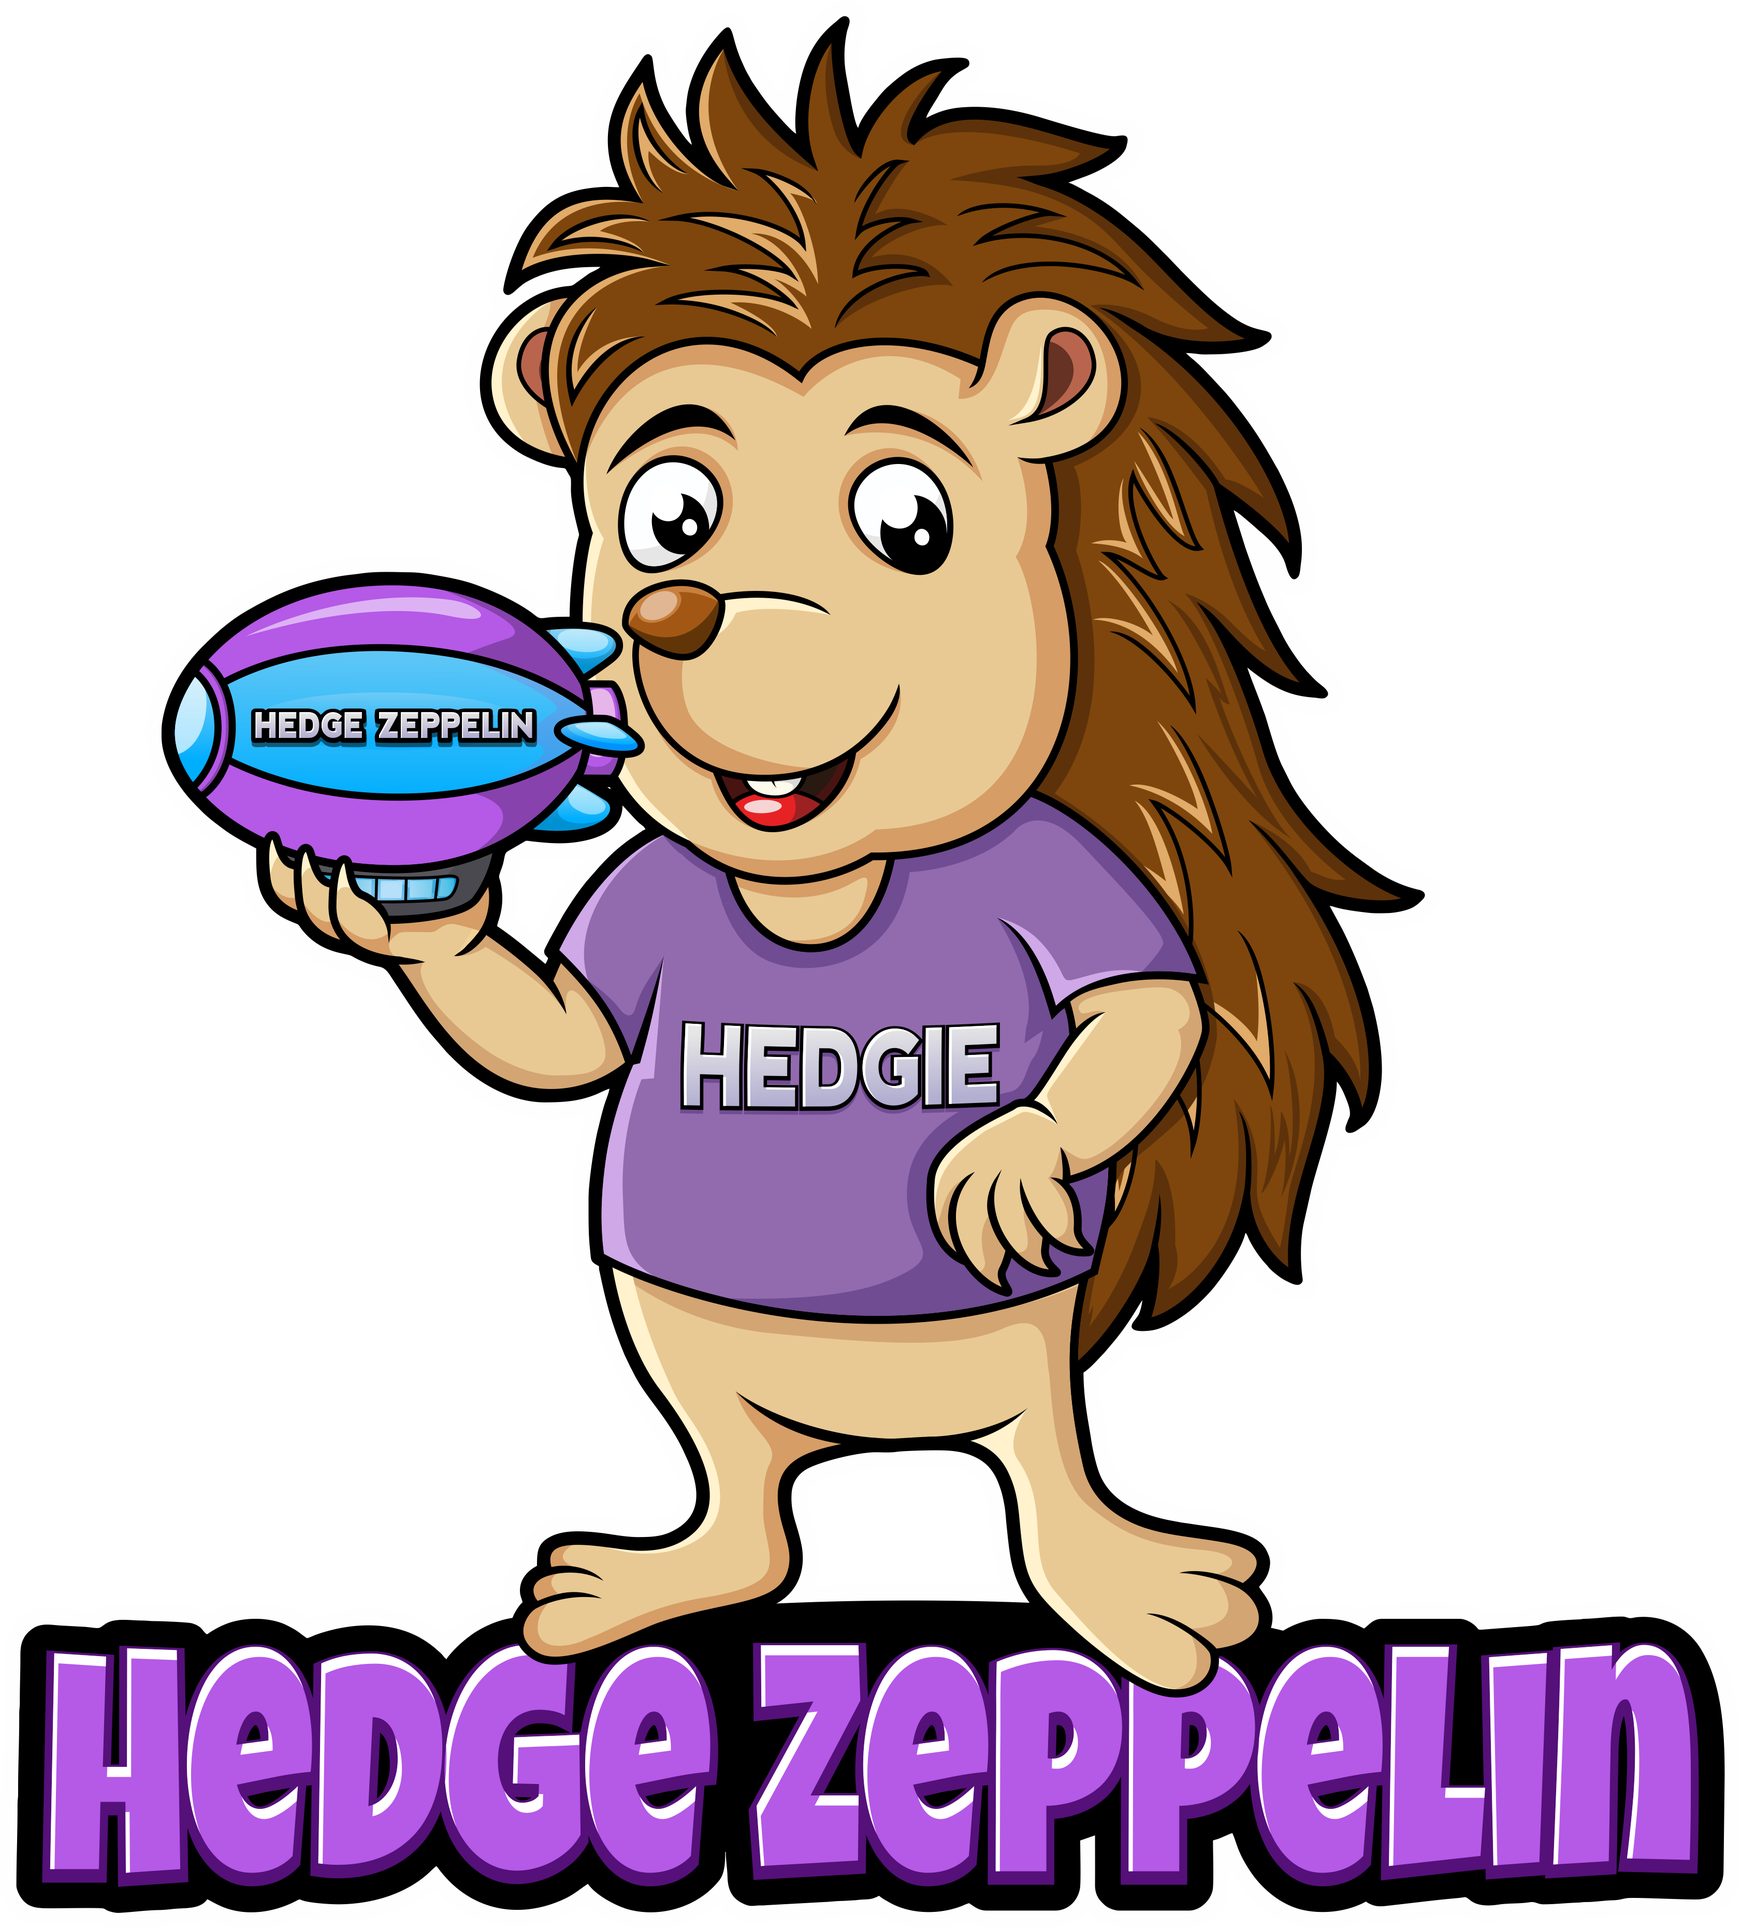
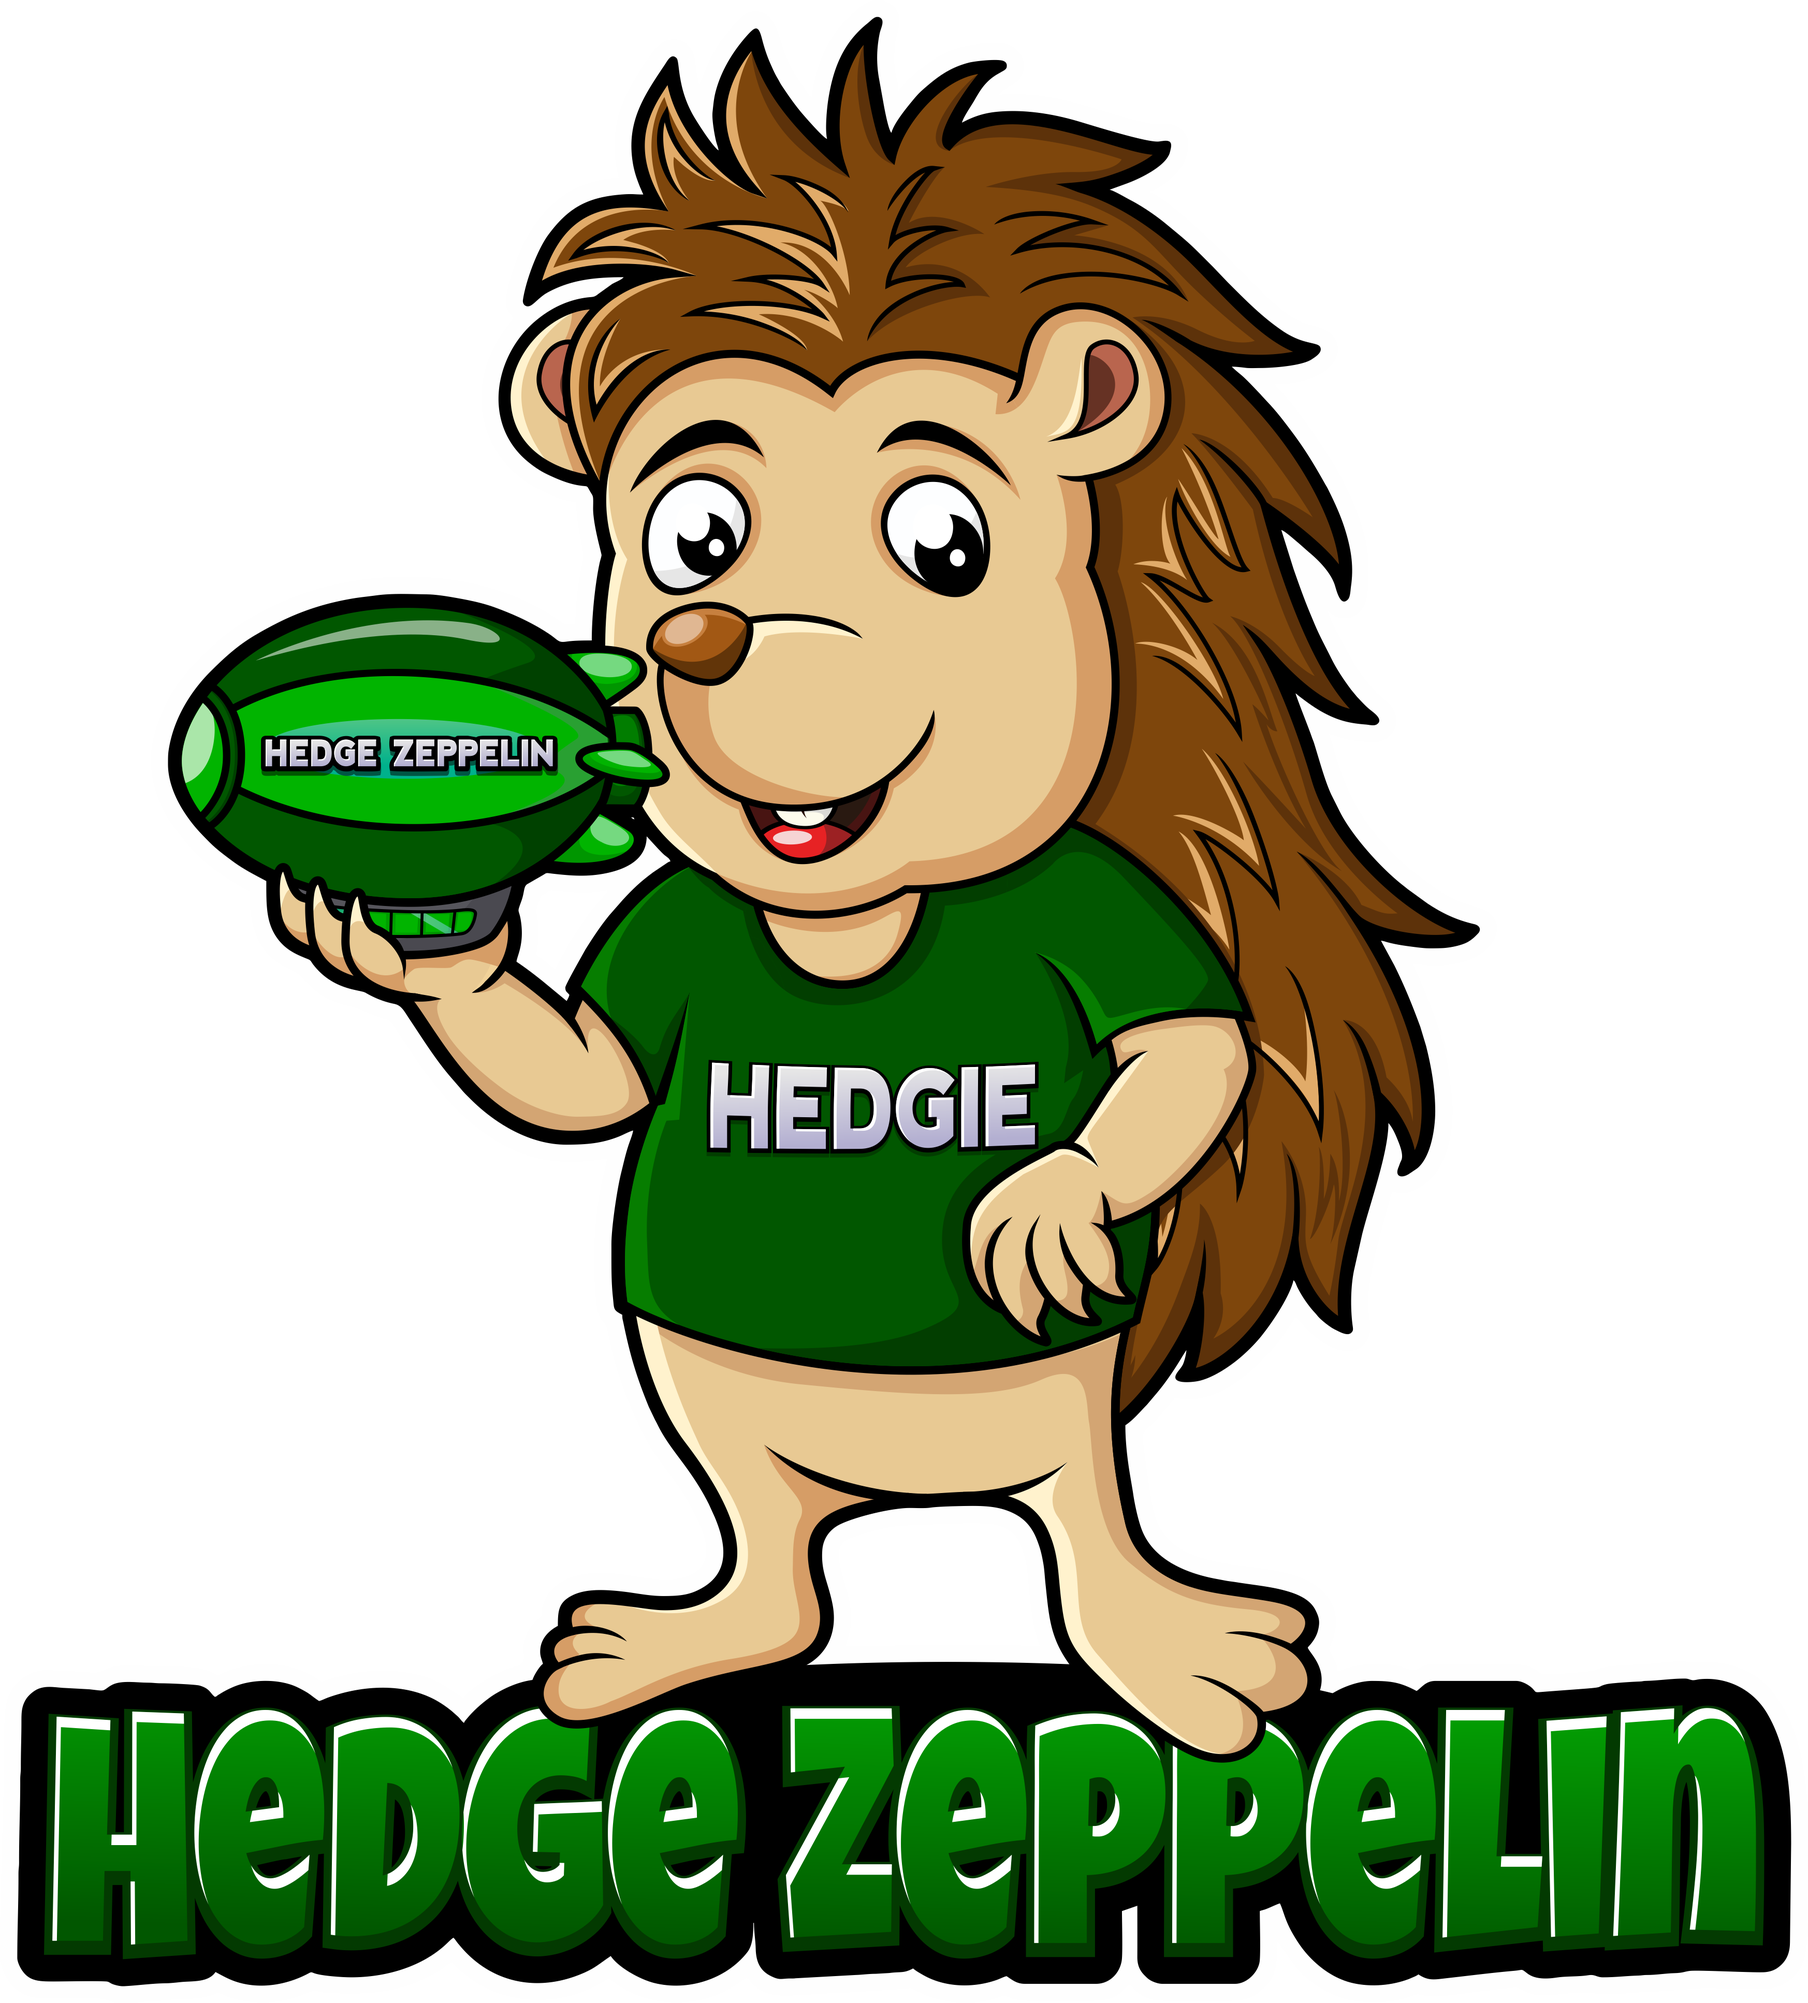
Changed to green hedgie. Change tokenomic card animation

Changed region(s): [[0.0, 0.8408, 0.9994, 0.9965], [0.3123, 0.4048, 0.6871, 0.6851], [0.0937, 0.2803, 0.3748, 0.4671]]

diff --git a/src/components/screens/Tokenomics.js b/src/components/screens/Tokenomics.js
@@ -1,7 +1,65 @@
 import Card from "../common/card/Card";
 import "./styles/tokenomics.css";
+import { useState } from "react";
 
 const Tokenomics = () => {
+  const [distFlip, setDistFlip] = useState({
+    prelaunch: false,
+    supply: false,
+    liquidity: false,
+  });
+
+  const DetailItem = (rowName, rowValue) => {
+    return (
+      <div
+        style={{
+          display: "flex",
+          justifyContent: "space-between",
+          flexDirection: "row",
+          width: "100%",
+          marginLeft: "10px",
+          marginRight: "10px",
+        }}
+      >
+        <span style={{ fontSize: "12px", marginBottom: "4px" }}>{rowName}</span>
+        <span
+          style={{ fontSize: "12px", marginBottom: "4px", textAlign: "right" }}
+        >
+          {rowValue.map((line) => (
+            <>
+              {line}
+              <br />
+            </>
+          ))}
+        </span>
+      </div>
+    );
+  };
+
+  const flip = (target) => {
+    let object;
+    switch (target) {
+      case "prelaunch":
+        object = {
+          prelaunch: !distFlip.prelaunch,
+        };
+        break;
+      case "supply":
+        object = {
+          supply: !distFlip.supply,
+        };
+        break;
+      case "liquidity":
+        object = {
+          liquidity: !distFlip.liquidity,
+        };
+        break;
+      default:
+        break;
+    }
+    setDistFlip((data) => ({ ...data, ...object }));
+  };
+
   return (
     <div className="tokenomics-container" id="tokenomics">
       <div className="tok-title">Tokenomics</div>
@@ -44,7 +102,7 @@ const Tokenomics = () => {
               style={{ width: "60px", height: "60px" }}
               alt="Checkmark"
             />
-            8% Buy/Transfer fees
+            5% Buy/Transfer fees
           </div>
         </Card>
         <Card>
@@ -61,7 +119,7 @@ const Tokenomics = () => {
               style={{ width: "60px", height: "60px" }}
               alt="Checkmark"
             />
-            12% Sell fees
+            5% Sell fees
           </div>
         </Card>
         <Card>
@@ -84,50 +142,110 @@ const Tokenomics = () => {
       </div>
       <div className="tk-card-container">
         <Card>
-          <div className="card-content">
-            <img
-              src={require("./../../assets/images/icons8-capital-96.png")}
-              style={{ width: "180px", height: "120px", margin: "20px" }}
-              alt="Capital"
-            />
-            <span style={{ fontSize: "18px", fontWeight: "bold" }}>
-              7.5% soft cap –<br /> 15% hard cap
-            </span>
+          <div
+            className="card-content"
+            onMouseEnter={flip.bind(this, "prelaunch")}
+            onMouseLeave={flip.bind(this, "prelaunch")}
+          >
+            <div className={"front" + (distFlip.prelaunch ? " flipF" : "")}>
+              <img
+                src={require("./../../assets/images/icons8-capital-96.png")}
+                style={{ width: "180px", height: "120px", margin: "20px" }}
+                alt="Capital"
+              />
+              <span style={{ fontSize: "16px", fontWeight: "bold" }}>
+                Presale / Launch Details
+              </span>
 
-            <span style={{ fontSize: "12px" }}>
-              7,500,000 / 15,000,000 coins
-            </span>
+              <span style={{ fontSize: "12px" }}>Hover/Click for details</span>
+            </div>
+            <div className={"back" + (distFlip.prelaunch ? " unflipB" : "")}>
+              <span style={{ marginBottom: "20px", fontWeight: "bold" }}>
+                Tokens Distribution
+              </span>
+              <span
+                style={{
+                  borderTop: "1px solid #ffffff",
+                  width: "100%",
+                  marginBottom: "20px",
+                }}
+              ></span>
+              {DetailItem("Private sale", ["15,000,000"])}
+              {DetailItem("Listing & Liquidity", ["50,000,000"])}
+            </div>
           </div>
         </Card>
         <Card>
-          <div className="card-content">
-            <img
-              src={require("./../../assets/images/core-team.png")}
-              style={{ width: "180px", height: "120px", margin: "20px" }}
-              alt="Core team"
-            />
-            <span style={{ fontSize: "18px", fontWeight: "bold" }}>
-              18% founders’ tokens
-            </span>
+          <div
+            className="card-content"
+            onMouseEnter={flip.bind(this, "supply")}
+            onMouseLeave={flip.bind(this, "supply")}
+          >
+            <div className={"front" + (distFlip.supply ? " flipF" : "")}>
+              <img
+                src={require("./../../assets/images/core-team.png")}
+                style={{ width: "180px", height: "120px", margin: "20px" }}
+                alt="Core team"
+              />
+              <span style={{ fontSize: "16px", fontWeight: "bold" }}>
+                Supply breakdown
+              </span>
 
-            <span style={{ fontSize: "12px" }}>(Released over 18 months)</span>
+              <span style={{ fontSize: "12px" }}>Hover/Click for details</span>
+            </div>
+            <div className={"back" + (distFlip.supply ? " unflipB" : "")}>
+              <span style={{ marginBottom: "20px", fontWeight: "bold" }}>
+                Tokens Distribution
+              </span>
+              <span
+                style={{
+                  borderTop: "1px solid #ffffff",
+                  width: "100%",
+                  marginBottom: "20px",
+                }}
+              ></span>
+              {DetailItem("Investment Wallet", ["15,000,000"])}
+              {DetailItem("Team & Ops Wallet", ["5,000,000"])}
+              {DetailItem("Marketing Wallet", ["5,000,000"])}
+              {DetailItem("Locked", ["10,000,000"])}
+            </div>
           </div>
         </Card>
         <Card>
-          <div className="card-content">
-            <img
-              src={require("./../../assets/images/liquidity.png")}
-              style={{ width: "180px", height: "120px", margin: "20px" }}
-              alt="Liquidity"
-            />
-            <span style={{ fontSize: "18px", fontWeight: "bold" }}>
-              Liquidity pool
-            </span>
-
-            <span style={{ fontSize: "12px" }}>HZEP / BNB</span>
-            <span style={{ fontSize: "12px" }}>HZEP / BUSD</span>
-            <span style={{ fontSize: "12px" }}>HZEP / POOP</span>
-            <span style={{ fontSize: "12px" }}>HZEP / USDT</span>
+          <div
+            className="card-content"
+            onMouseEnter={flip.bind(this, "liquidity")}
+            onMouseLeave={flip.bind(this, "liquidity")}
+          >
+            <div className={"front" + (distFlip.liquidity ? " flipF" : "")}>
+              <img
+                src={require("./../../assets/images/liquidity.png")}
+                style={{ width: "180px", height: "120px", margin: "20px" }}
+                alt="Liquidity"
+              />
+              <span style={{ fontSize: "16px", fontWeight: "bold" }}>
+                Liquidity pools
+              </span>
+              <span style={{ fontSize: "12px" }}>Hover/Click for details</span>
+            </div>
+            <div className={"back" + (distFlip.liquidity ? " unflipB" : "")}>
+              <span style={{ marginBottom: "20px", fontWeight: "bold" }}>
+                Tokens Distribution
+              </span>
+              <span
+                style={{
+                  borderTop: "1px solid #ffffff",
+                  width: "100%",
+                  marginBottom: "20px",
+                }}
+              ></span>
+              {DetailItem("Initial Liquidity", ["10,000,000"])}
+              {DetailItem("Liquidity Pairs", [
+                "HZEP / BNB",
+                "HZEP / BUSD",
+                "HZEP / USDT",
+              ])}
+            </div>
           </div>
         </Card>
       </div>

diff --git a/src/components/screens/styles/tokenomics.css b/src/components/screens/styles/tokenomics.css
@@ -16,16 +16,19 @@
   align-items: center;
   font-size: 18px;
   flex-direction: column;
-  transition: scale 0.2s;
+  /* transition: scale 0.2s; */
   height:300px;
   margin: 0px 12px;
   justify-content: center;
   width: 250px;
+  position: relative;
+  transform-style: preserve-3d;
+  box-sizing: border-box;
 }
 
-.card-content:hover {
+/* .card-content:hover {
   scale: 1.2;
-}
+} */
 
 .highlight-container{
   margin: 30px 0px;
@@ -61,4 +64,36 @@
 .card-title {
   text-align: center;
   width: 100%;
+}
+
+.front,.back {
+    /* box-sizing: border-box; */
+    height: 100%;
+    width: 100%;
+    display: flex;
+    position: absolute;
+    backface-visibility: hidden;
+    transform-style: preserve-3d;
+    transition: -webkit-transform ease 500ms;
+    transition: transform ease 500ms;
+    justify-content: center;
+    align-items: center;
+    flex-direction: column;
+}
+
+.front {
+  z-index: 2;
+  transform: rotateY(0deg);
+}
+
+.back {
+  transform: rotateY(-180deg);
+}
+
+.flipF {
+  transform: rotateY(180deg);
+}
+
+.unflipB {
+  transform: rotateY(0deg);
 }

diff --git a/src/components/screens/styles/whatisthis.css b/src/components/screens/styles/whatisthis.css
@@ -1,10 +1,10 @@
 .whatisthis {
-  margin-top: 0px;
+  margin-top: -1px;
   display: flex;
   justify-content: space-between;
   /* position: relative; */
   padding-bottom: 80px;
-  background-image: url('./../../../assets/images/Background.png');
+  background-image: var(--background-gradient),url('./../../../assets/images/hedgie-bg.png');
   width: 100%;
   height: fit-content;
 }
